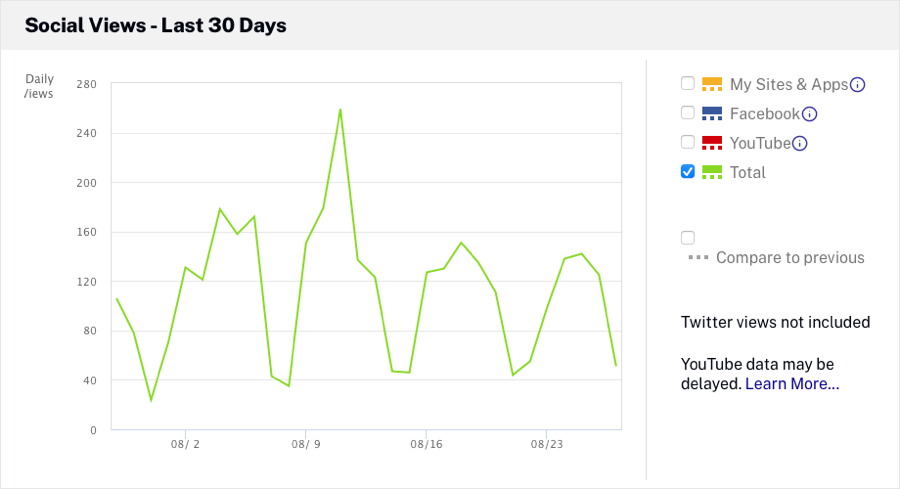
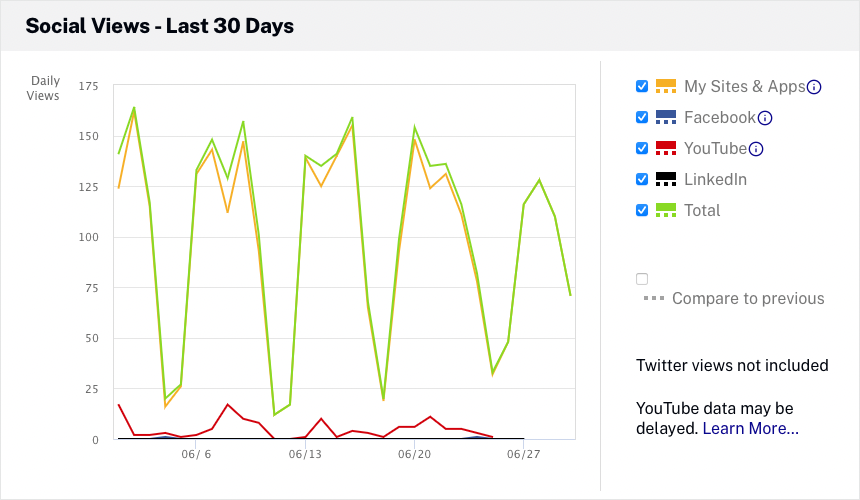
update social analytics docs

diff --git a/_site/social/reviewing-social-views-analytics.html b/_site/social/reviewing-social-views-analytics.html
@@ -1540,7 +1540,7 @@ function doGTranslate(lang_pair) {if(lang_pair.value)lang_pair=lang_pair.value;i
       <li><strong>Social Views</strong> - Provides an overview of the social view for videos shared to social media accounts. Covered in this topic.</li>
       <li><strong>Social Engagement</strong> - Provides an overview of the social engagement (Likes, Shares, Retweets, etc.) for videos shared to social media accounts. For information, see <a href="/social/reviewing-social-engagement-analytics.html">Reviewing Social Engagement Analytics</a>.</li>
     </ul>
-	  <p>To access the social view analytics, open the Social module, click <strong>Social Analytics </strong>in the left navigation and then click the <strong>Social Views </strong> tab at the top of the page.</p>
+    <p>To access the social view analytics, open the Social module, click <strong>Social Analytics </strong>in the left navigation and then click the <strong>Social Views </strong> tab at the top of the page.</p>
     <p>Start by <a href="reviewing-social-analytics.html#timespan">selecting a time span</a> for the report. To view the Social Views Analytics Report, click the <strong>Social Views</strong> tab at the top of the page.</p>
     <figure class="bcls-figure"><img class="bcls-image--no-border" alt="report tabs" src="/assets/images/s-social-img/node16679-report-tabs.png" /></figure>
     <p>The Social View Analytics Report is organized into the following sections:</p>
@@ -1559,6 +1559,7 @@ function doGTranslate(lang_pair) {if(lang_pair.value)lang_pair=lang_pair.value;i
       <li><strong>My Sites &amp; Apps</strong> - Display the number of video views from Brightcove players and apps</li>
       <li><strong>Facebook</strong> - Display the number of video views on Facebook</li>
       <li><strong>YouTube</strong> - Display the number of video views on YouTube</li>
+      <li><strong>LinkedIn</strong> - Display the number of video views on LinkedIn</li>
       <li><strong>Total</strong> - Display the total number of video views across all platforms</li>
     </ul>
     <p>Hovering over a line in the graph will display the data for that date.</p>
@@ -1579,14 +1580,14 @@ function doGTranslate(lang_pair) {if(lang_pair.value)lang_pair=lang_pair.value;i
     <p>The bottom of the report has controls which let you select how many rows should be displayed and for navigating to other pages. Clicking the link for any of the video titles will display the social views analytics for the selected video.</p>
   </section>
   <section class="bcls-section">
-    <h2 id="faq">Common questions</h2>
-    <p>1. When the Social module is used to publish a video to YouTube and then that video is embedded in a YouTube player on another site, will playback/engagement data still be gathered and passed in to the Social module analytics?</p>
-    <p>Social Analytics collects all view data reported by YouTube, as it appears in your Creator Studio and/or analytics pages on YouTube. If the YouTube embedded player views count toward your analytics, the Social module will capture that and report it. Using the embed code YouTube's <strong>Share &gt; Embed</strong> feature exactly as given causes views from that embedded player to count toward your analytics in YouTube. However, editing the embed code may cause YouTube to not collect views data, and in particular setting the embedded player to auto-play the video seems to cause YouTube to not count views from that player.</p>
-  </section>
-  <section class="bcls-section">
     <h2 id="export">Exporting data</h2>
     <p>Report data can be downloaded as both comma separated values and Excel formats. Note that the export feature saves the data directly from an <span translate="No">Analytics API</span> call. The exported data is not manipulated the way the UI data is, and currently contains all of the underlying data in the report, not just the subset of fields the UI shows. Having all of the data in the original format from the API allows you to manipulate the data in ways other than what is provided in the UI.</p>
     <figure class="bcls-figure"><img class="bcls-image--no-border" alt="export data" src="/assets/images/s-social-img/node16680-export.png" /></figure>
+  </section>
+  <section class="bcls-section">
+    <h2 id="faq">Common questions</h2>
+    <p>1. When the Social module is used to publish a video to YouTube and then that video is embedded in a YouTube player on another site, will playback/engagement data still be gathered and passed in to the Social module analytics?</p>
+    <p>Social Analytics collects all view data reported by YouTube, as it appears in your Creator Studio and/or analytics pages on YouTube. If the YouTube embedded player views count toward your analytics, the Social module will capture that and report it. Using the embed code YouTube's <strong>Share &gt; Embed</strong> feature exactly as given causes views from that embedded player to count toward your analytics in YouTube. However, editing the embed code may cause YouTube to not collect views data, and in particular setting the embedded player to auto-play the video seems to cause YouTube to not count views from that player.</p>
   </section>
 </article>
 
